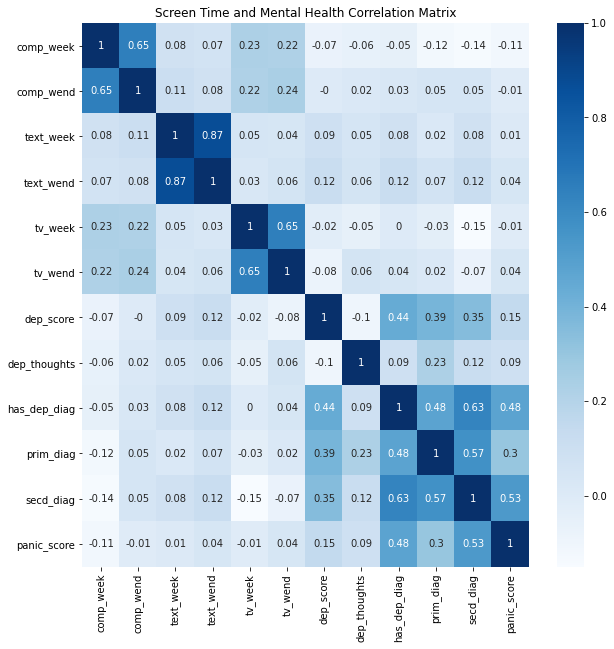
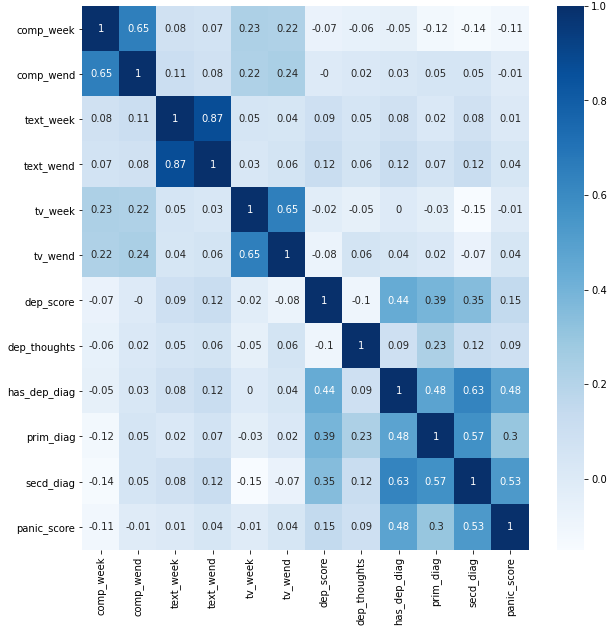
changed layout of matrices to fit better

diff --git a/docs/index.md b/docs/index.md
@@ -10,12 +10,14 @@
 
 ## Correlation Matrix and *p*-value: Additional Results
 
-|  |  |
+| Screen Time and Mental Health Correlation Matrix | Screen Time and Mental Health *p*-values |
 | - | - |
 | ![](images/correlation%20matrix%20sampled.png) | ![](images/p%20value%20matrix%20sampled.png)
 
-<img style="float:left;width:50%" src="images/correlation%20matrix%20sampled.png">
-<img style="float:right;width:50%" src="images/p%20value%20matrix%20sampled.png">
+<!-- <div>
+    <img style="float:left;width:45%" src="images/correlation%20matrix%20sampled.png">
+    <img style="float:right;width:45%" src="images/p%20value%20matrix%20sampled.png">
+</div> -->
 
 *Correlation matrix between screen time variables and mental health variables with sampled data-set. **Left**: The darker the cell, the more the correlation between two variables. **Right**: The lighter the cell, the more the significance of the corresponding correlation value.*
 
